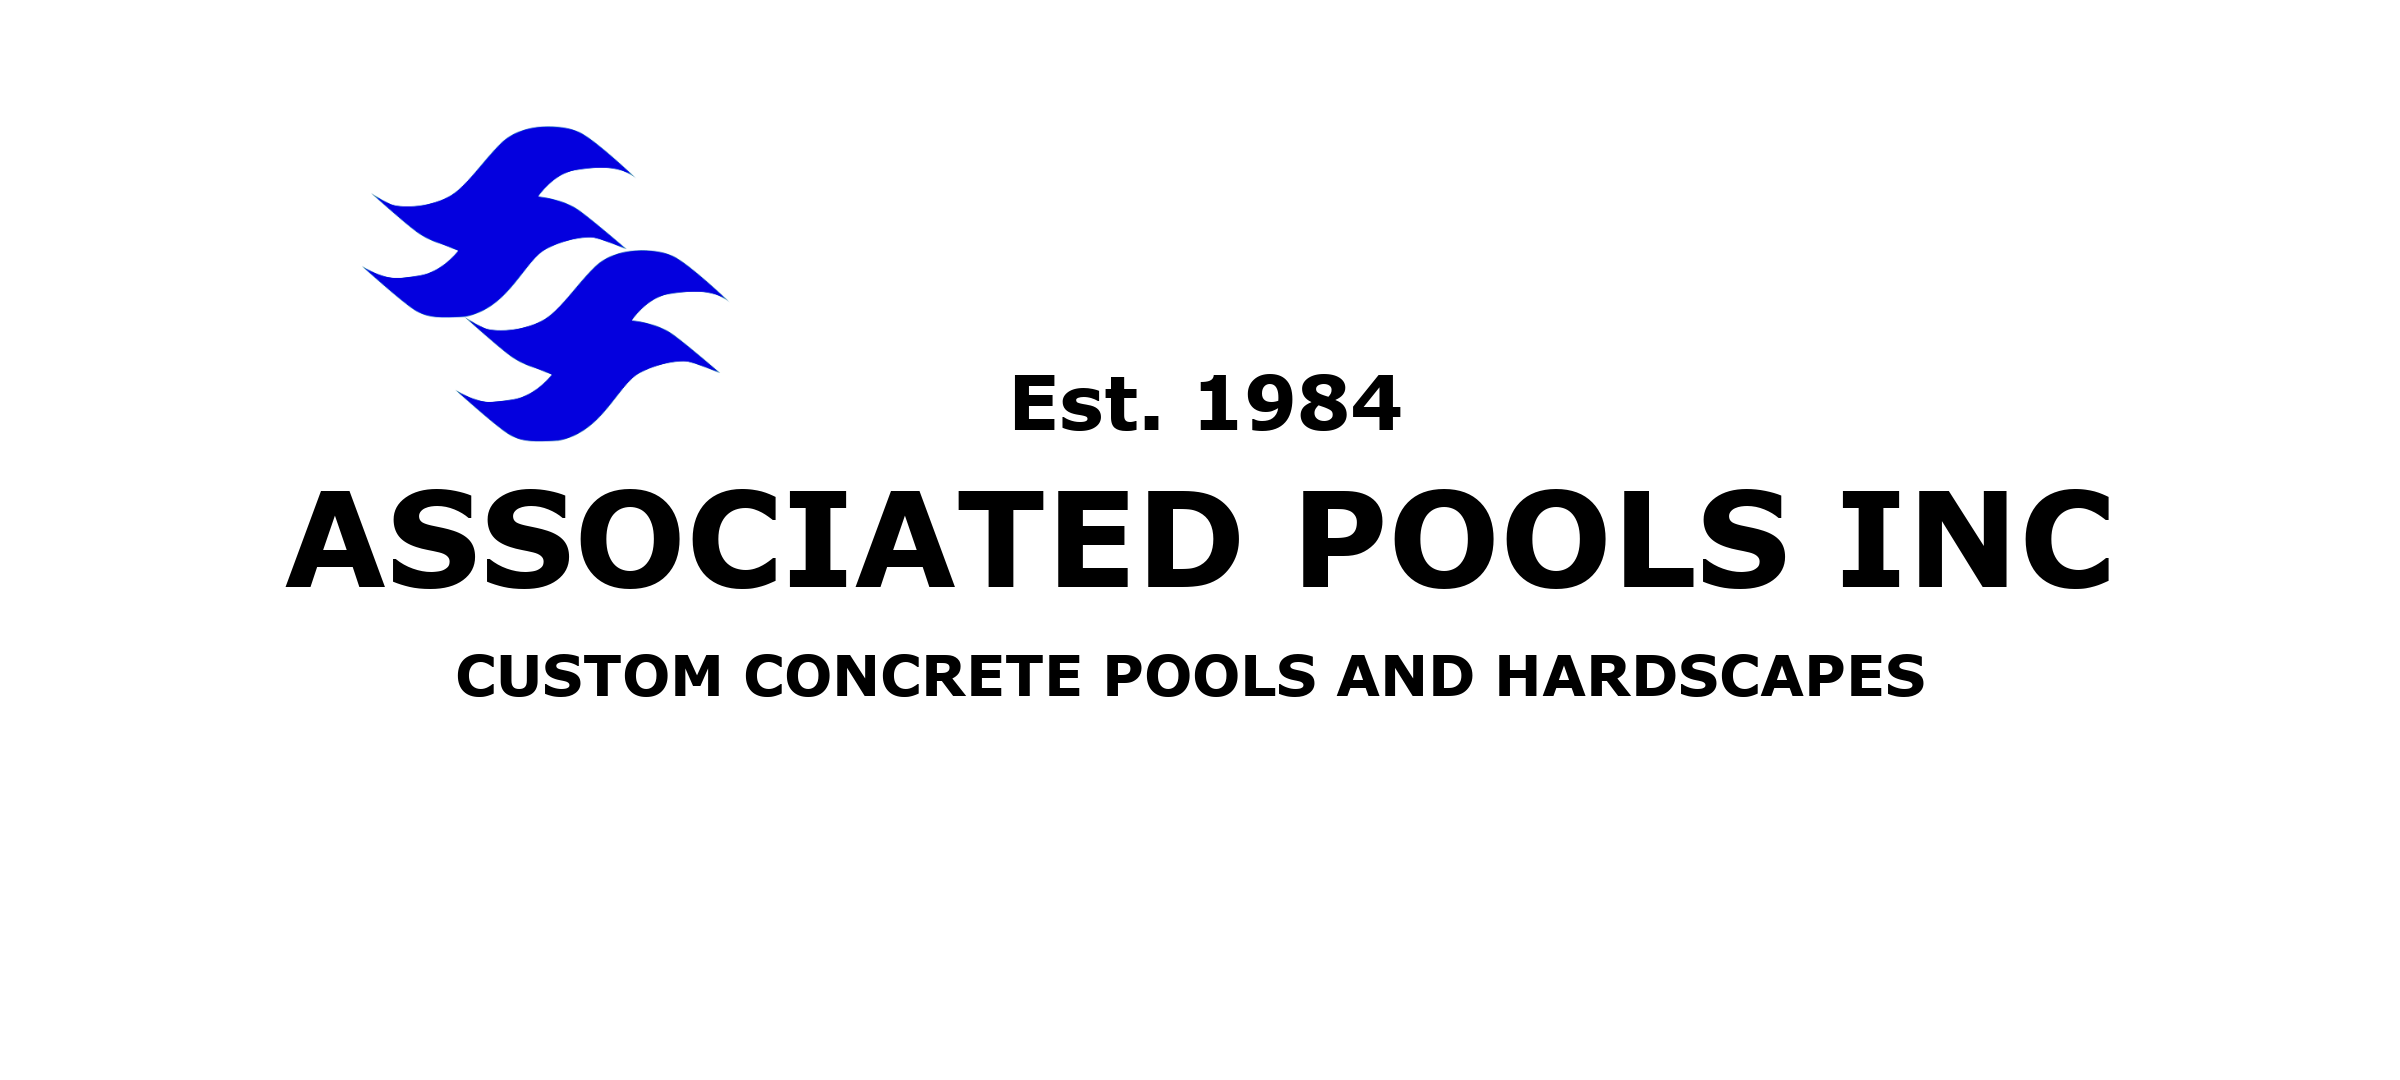
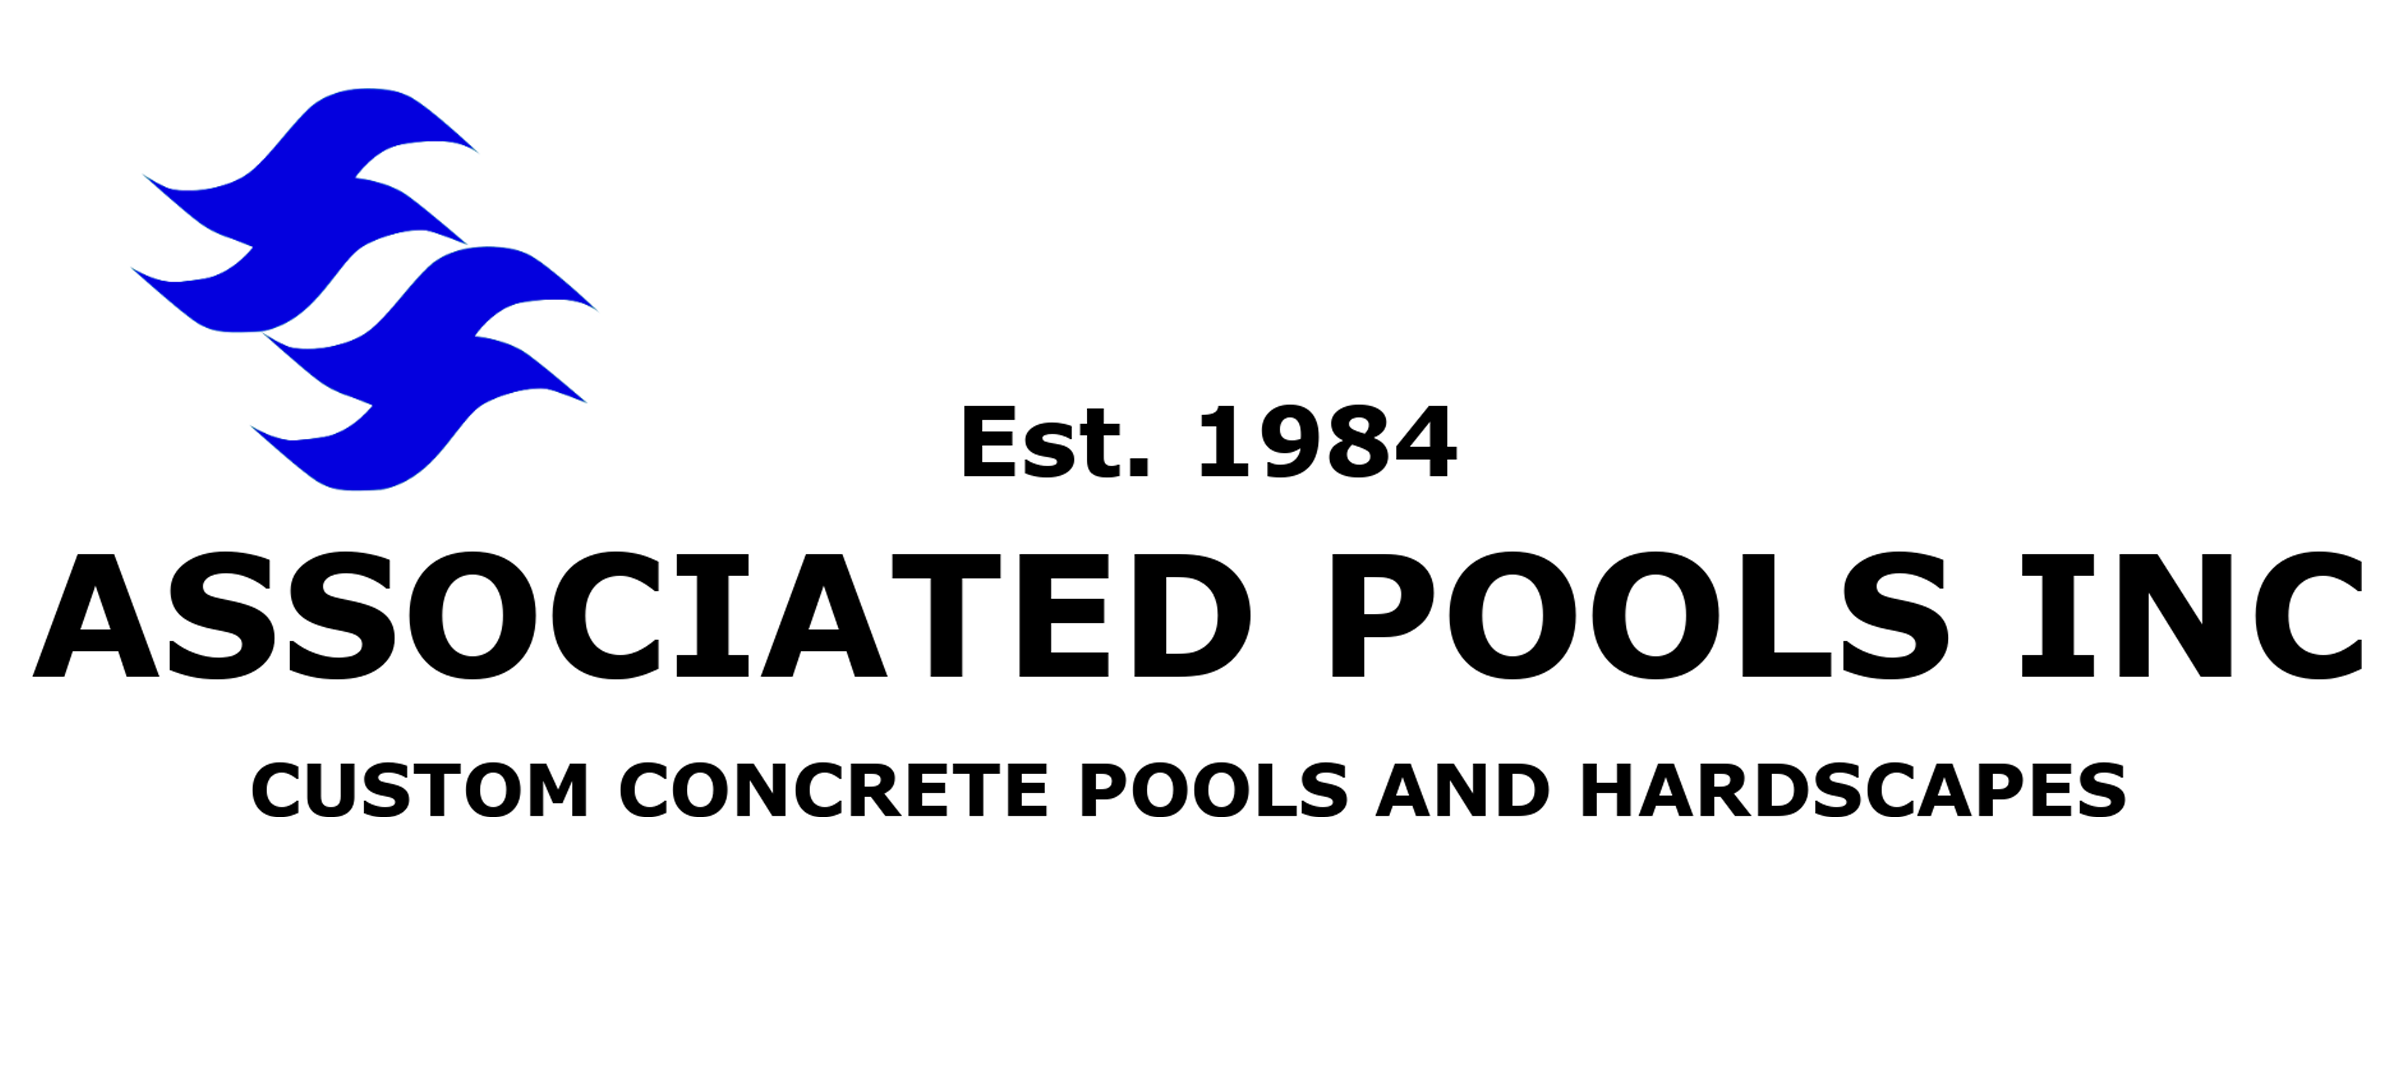
well where do we start... added company info page, added scroll transitions, added css styling properties, initiated react-spring components.

Changed region(s): [[0.0, 0.0611, 1.0, 0.6417], [0.0938, 0.7028, 0.9062, 0.7639]]

diff --git a/src/pages/about/subpages/company.jsx b/src/pages/about/subpages/company.jsx
@@ -1,0 +1,84 @@
+import React from "react";
+import VisibilitySensor from "react-visibility-sensor";
+import { NavHeader, Footer, Loading } from "../../../components";
+import Banner from '../../../assets/img/Website Banner Minimal.png'
+import People from '../../../assets/img/people.jpg'
+import PoolOne from '../../../assets/img/pool-one.png'
+
+export function Company({ History }) {
+
+    const [loading, setLoading] = React.useState(true);
+
+    React.useEffect( () => {
+        setLoading(false);
+    })
+
+    return (
+        <>
+        {loading? (
+            <Loading />
+        ) : (
+            <>
+            <NavHeader />
+                  <div className="img-wrapper">
+                    <img src={ PoolOne } height="80%" width="100%" className="img-responsive"></img>
+                  </div>
+
+                  <div className="container-fluid m-0">
+
+                  <div className="row-3 mt-5 img-overlay">
+                      <div className="col">
+                        <img src={ Banner } alt="Associated Pools Inc." height='30%' width="50%"></img>
+                      </div>
+                  </div>
+
+                  <div className="row mt-3 mb-3 img-overlay">
+                      <div className="col">
+                        <ul className="nav justify-content-center">
+                            <li className="nav-item p-3">
+                                <a className="btn btn-primary" aria-current="page" href="/about/company">The Company</a>
+                            </li>
+                            <li className="nav-item p-3">
+                                <a className="btn btn-light" href="/about/people">The People</a>
+                            </li>
+                            <li className="nav-item p-3">
+                                <a className="btn btn-light" href="/about/mission">The Mission</a>
+                            </li>
+                        </ul>
+                      </div>
+                  </div>
+
+                  <VisibilitySensor>
+                    {({ isVisible }) => (
+                  <div className={isVisible ? "card center mb-4 mt-4 fade-in appear" : "card center mb-4 mt-4 fade-in"} style={{width: '97%'}}>
+                    <div className="row mt-4">
+                        <div className="col-sm">
+                          <img src={ People } alt="A photo of different employees" height='100%' width="80%"></img>
+                        </div>
+                        <div className="col-sm">
+                            <div className="card-body text-center">
+                                <h2 className="card-title">A History of Good People</h2>
+                                <p className="card-text mt-3">
+                                    Associated Pools Inc. comes from generations of driven, motivated individuals. Founded by Ron Kitterer in 1984,
+                                    Associated ran under his ownership for over ten years, until he handed down the business to his trusted foreman,
+                                    Mark  Polivka. Mark grew the company and its network for the next two decades until he, following in Ron's footsteps,
+                                    handed it down to his foreman, Bryan Yates.
+                                    <br />
+                                    <br />
+                                    Bryan has since grown the company, expannding to more and more residential customers and projects. With the expansion
+                                    he has founda strong team, motivated to provide the high standard of quality Associated Pools is known for.
+                                </p>
+                            </div>
+                        </div>
+                      </div>
+                  </div>
+                    )}
+                </VisibilitySensor>
+
+              </div>
+              <Footer className="mt-auto"/>
+            </>
+        )}
+        </>
+    )
+}

diff --git a/src/assets/styles/App.css b/src/assets/styles/App.css
@@ -7,12 +7,29 @@
   Offset Dark Blue:--#2d4957
   Light Gray:--------#c4c2cf
 */
+html {
+  scroll-behavior: smooth;
+}
 a {
   text-decoration: none; 
 }
 
+p {
+  font-size: 20px;
+}
+
 body {
-  background-color: #0400de;
+  background-color: #f8f9fa;
+  overflow: auto;
+  overflow-x: hidden;
+  min-height: 100%;
+}
+
+img {
+  max-width: 100%;
+  display: block;
+  margin-left: auto;
+  margin-right: auto;
 }
 
 .App {
@@ -48,9 +65,37 @@ body {
   color: #a7c3d1;
 }
 
-/*--------------------------------------------*/
+/* ----------------Scrollbar------------------------ */
+::-webkit-scrollbar {
+  width: 12px;
+}
+
+/* Track */
+::-webkit-scrollbar-track {
+  -webkit-box-shadow: inset 0 0 6px rgba(0,0,0,0.3); 
+  -webkit-border-radius: 6px;
+  border-radius: 6px;
+}
+
+/* Handle */
+::-webkit-scrollbar-thumb {
+  -webkit-border-radius: 6px;
+  border-radius: 0px;
+  background: rgba(255, 255, 255, 0.8); 
+  -webkit-box-shadow: inset 0 0 6px rgba(0,0,0,0.5); 
+}
+::-webkit-scrollbar-track-piece {
+  background: #3d3d3d4f; 
+}
+::-webkit-scrollbar-thumb:window-inactive {
+background: rgba(255, 255, 255, 0.4); 
+}
+
+/*------------------------------------------------------------------*/
+
+/*-----------------------NavBar------------------------------------*/
 .navHover {
-  opacity: .15;
+  opacity: .75;
   -webkit-transition: opacity .5s;
   -moz-transition: opacity .5s;
   transition: opacity .5s;
@@ -61,37 +106,85 @@ body {
   background-color: #f8f9fa;
 }
 
+/*-----------------------------------------------------------------*/
+
 .img-wrapper {
   position: relative;
 }
 
 .img-responsive {
-  width: 100%;
-  height: auto;
+  min-width: 100%;
+  min-height: 100%;
 }
 
 .img-overlay {
   position: absolute;
   align-items: center;
-  top: 20%;
-  bottom: 20%;
-  left: 15%;
-  right: 20%;
+  top: 10%;
+  bottom: 0%;
+  left: 0%;
+  right: 0%;
   text-align: center;
-  background-color: #f8f9fabe;
 }
 
 .img-overlay:before {
-  content: ' ';
   display: block;
-  /* adjust 'height' to position overlay content vertically */
   height: 30%;
 }
 
+.filter-dark{
+  background: #343a4057;
+}
+.aligned { 
+  display: flex;
+  align-items:center;
+}
+
+.h1{
+  font-size: 65px;
+}
+
+/*-----------------------Footer---------------------------------*/
 .footer {
   width: 100%;
   flex-shrink: 0;
   left:0;
   bottom:0;
   right:0;
+}
+
+.footer p {
+  font-size: 15px;
+}
+
+.footer a {
+  font-size: 15px;
+}
+
+/*----------------------------------------------------------------*/
+.center {
+  margin-left: auto;
+  margin-right: auto;
+}
+
+.fade-in {
+  opacity: 0;
+  -webkit-transition: opacity 1s ease-in-out;
+  -moz-transition: opacity 1s ease-in-out;
+  transition: opacity 1s ease-in-out;
+}
+
+.fade-in.appear {
+  opacity: 1;
+  -webkit-transition: opacity 1s ease-in-out;
+  -moz-transition: opacity 1s ease-in-out;
+  transition: opacity 1s ease-in-out;
+}
+
+@media (print), (prefers-reduced-motion: reduce) {
+  .fadeIn {
+    transition: none;
+    opacity: 1;
+    transform: none;
+  }
 }

diff --git a/src/pages/home/index.jsx b/src/pages/home/index.jsx
@@ -1,7 +1,7 @@
 import React from "react";
 import { NavHeader, Loading, Footer } from "../../components";
 import homeVideo from '../../assets/img/home-vid.mp4'
-import logo from '../../assets/img/Website Banner Minimal.png'
+import logo from '../../assets/img/double-waves.png'
 
 export function Home({ History }) {
 
@@ -19,22 +19,26 @@ export function Home({ History }) {
             <>
                 <NavHeader />
                 <div className="container-fluid m-0 p-0">
-                    <div className="img-wrapper">
-                        <video loop width="100%" height="100%" autoPlay={true} muted={true} className="mt-auto img-responsive">
-                            <source src={ homeVideo } />
-                            Browser does not support video.
-                        </video>
-                    </div>
+                    <div className="row ">
+                        <div className="col">
+                            <div className="img-wrapper">
+                                <video loop height="50%" autoPlay={true} muted={true} className="mt-auto img-responsive">
+                                    <source src={ homeVideo } />
+                                    Browser does not support video.
+                                </video>
+                            </div>
 
-                    <div className="card img-overlay" style={{width: '80rem'}}>
-                        <img src={ logo } style={{width: '80%'}}className="card-img-top" alt="..."/>
-                        <div className="card-body">
-                            <h5 className="card-title">Card title</h5>
-                            <p className="card-text">Some quick example text to build on the card title and make up the bulk of the card's content.</p>
-                            <a href="#" className="btn btn-primary">Go somewhere</a>
+                        <div className="card img-overlay text-light filter-dark" style={{width: '100%', height: '100%'}}>
+                            <div className="card-body position-absolute top-50 start-50 translate-middle">
+                                <h1 className="d-inline h1">Associated Pools Inc.</h1>
+                                <h2 className="card-title mt-5 mb-3">Making you wet since 1984</h2>
+                                <h5 className="card-text mb-5">Over 30 years of designing and creating your dream outdoor living space.</h5>
+                                <a href="#" className="btn btn-primary">Get Inspired</a>
+                            </div>
+                        </div>
                         </div>
                     </div>
-                </div>
+                    </div>
                 <Footer className="mt-auto"/>
            </>
         )}

diff --git a/src/components/NavHeader/index.jsx b/src/components/NavHeader/index.jsx
@@ -4,8 +4,8 @@ export function NavHeader(){
     return(
         <nav className="navbar navbar-light  fixed-top navHover">
             <div className="container-fluid">
-                <a className="navbar-brand" href="/"><img src="../../../assets/img/double-waves.png" width="50"/></a>
-                <button className="navbar-toggler" type="button" data-bs-toggle="offcanvas" data-bs-target="#offcanvasNavbar" aria-controls="offcanvasNavbar">
+                <a className="navbar-brand" id="opacity-full" href="/"><img src="../../../assets/img/double-waves.png" width="50"/></a>
+                <button className="navbar-toggler" id="opacity-full" type="button" data-bs-toggle="offcanvas" data-bs-target="#offcanvasNavbar" aria-controls="offcanvasNavbar">
                 <span className="navbar-toggler-icon"></span>
                 </button>
                 <div className="offcanvas offcanvas-end" tabIndex="-1" id="offcanvasNavbar" aria-labelledby="offcanvasNavbarLabel">
@@ -23,7 +23,7 @@ export function NavHeader(){
                         About Us
                         </a>
                         <ul className="dropdown-menu" aria-labelledby="offcanvasNavbarDropdown">
-                        <li><a className="dropdown-item" href="associatedpoolsinc.com">The Company</a></li>
+                        <li><a className="dropdown-item" href="/about/company">The Company</a></li>
                         <li><a className="dropdown-item" href="associatedpoolsinc.com">The People</a></li>
                         <li><a className="dropdown-item" href="associatedpoolsinc.com">The Mission</a></li>
                         </ul>

diff --git a/src/App.js b/src/App.js
@@ -1,12 +1,16 @@
 import './assets/styles/App.css';
+import React from 'react';
 import { Routes, Route } from 'react-router-dom'
-import { Home } from './pages'
+import { Home, Company } from './pages'
 
 function App() {
   return (
+    <>
     <Routes>
       <Route path='/' exact={true} element={<Home />} />
+      <Route path='/about/company' exact={true} element={<Company />} />
     </Routes>
+    </>
   );
 }
 

diff --git a/src/pages/index.jsx b/src/pages/index.jsx
@@ -1,1 +1,2 @@
 export { Home } from './home'
+export { Company } from './about'

diff --git a/src/utils/utils.js b/src/utils/utils.js
@@ -1,0 +1,1 @@
+const faders = document.querySelectorAll('.fade-in')

diff --git a/src/pages/about/index.jsx b/src/pages/about/index.jsx
@@ -1,0 +1,1 @@
+export { Company } from './subpages/company'
